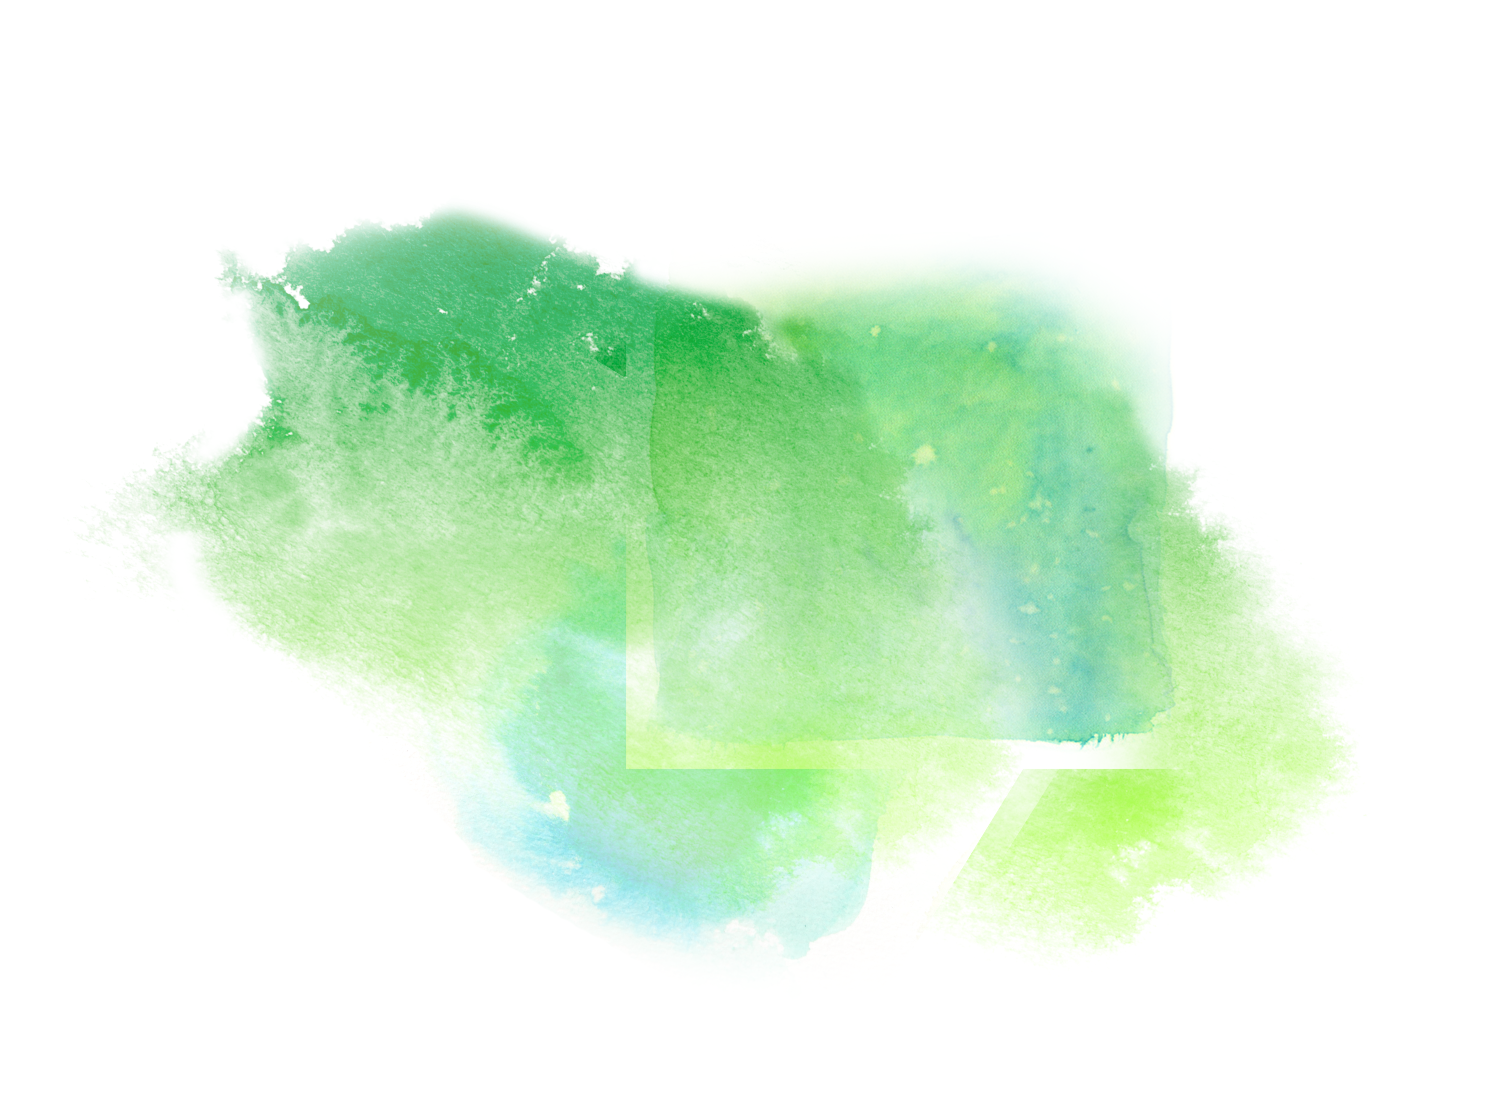
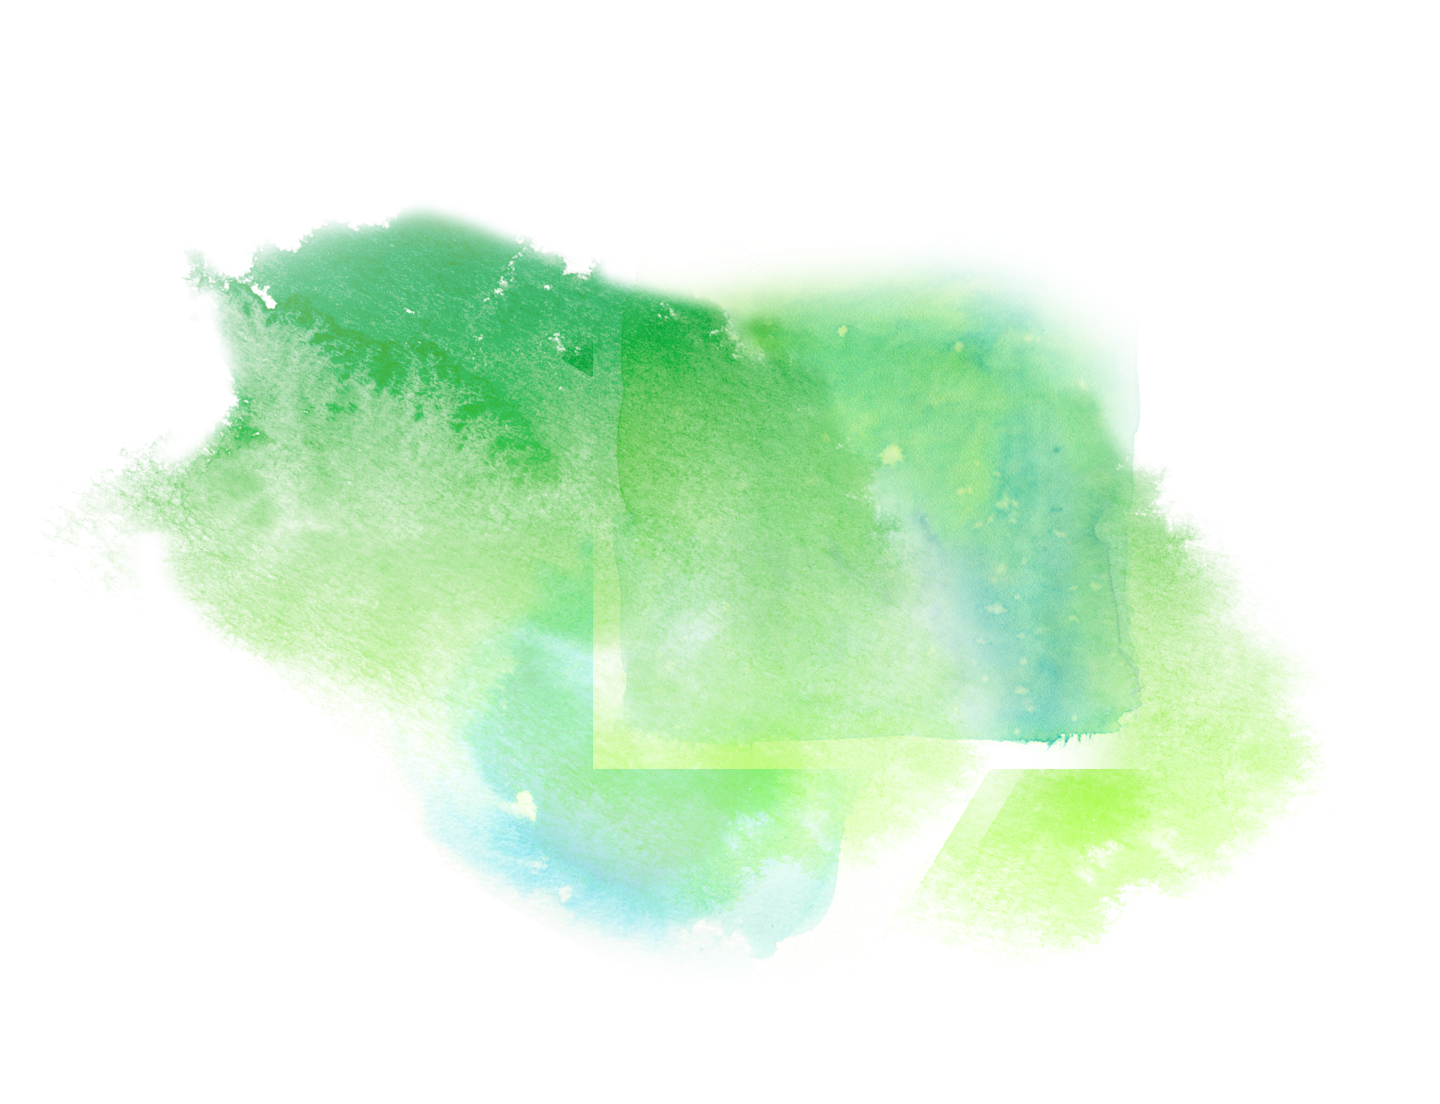
add hellowoods page

diff --git a/resources/assets/css/components/_section.scss b/resources/assets/css/components/_section.scss
@@ -57,3 +57,37 @@
 .section-button {
   margin-top: 34px;
 }
+
+
+//HELLOWOODS MODIFIER
+.hellowoods-wrapper {
+  .section-image {
+    &::after {
+      content: "";
+      width: 330px;
+      height: 282px;
+      position: absolute;
+      left: 0;
+      right: 0;
+      bottom: -100px;
+      background: url(#{$image-path}hellowoods/explore-logo-bg.png) no-repeat;
+      background-size: contain;
+      margin: auto;
+    }
+    
+    
+  }
+  .section-contents {
+    &::before {
+      max-width: 80%;
+      right: 0;
+      margin: auto;
+    }
+
+    .section-image-logo {
+      position: relative;
+      margin-top: -30px;
+      top: auto;
+    }
+  }
+}

diff --git a/resources/assets/css/components/_hellowoods.scss b/resources/assets/css/components/_hellowoods.scss
@@ -64,6 +64,10 @@
   .field-introduction {
     .map-wrapper {
       background-image: url(../images/hellowoods/life-overflow-bg.png);
+      text-align: center;
+      background-repeat: no-repeat;
+      padding: 50px;
+      background-position: center;
     }
   }
 }
